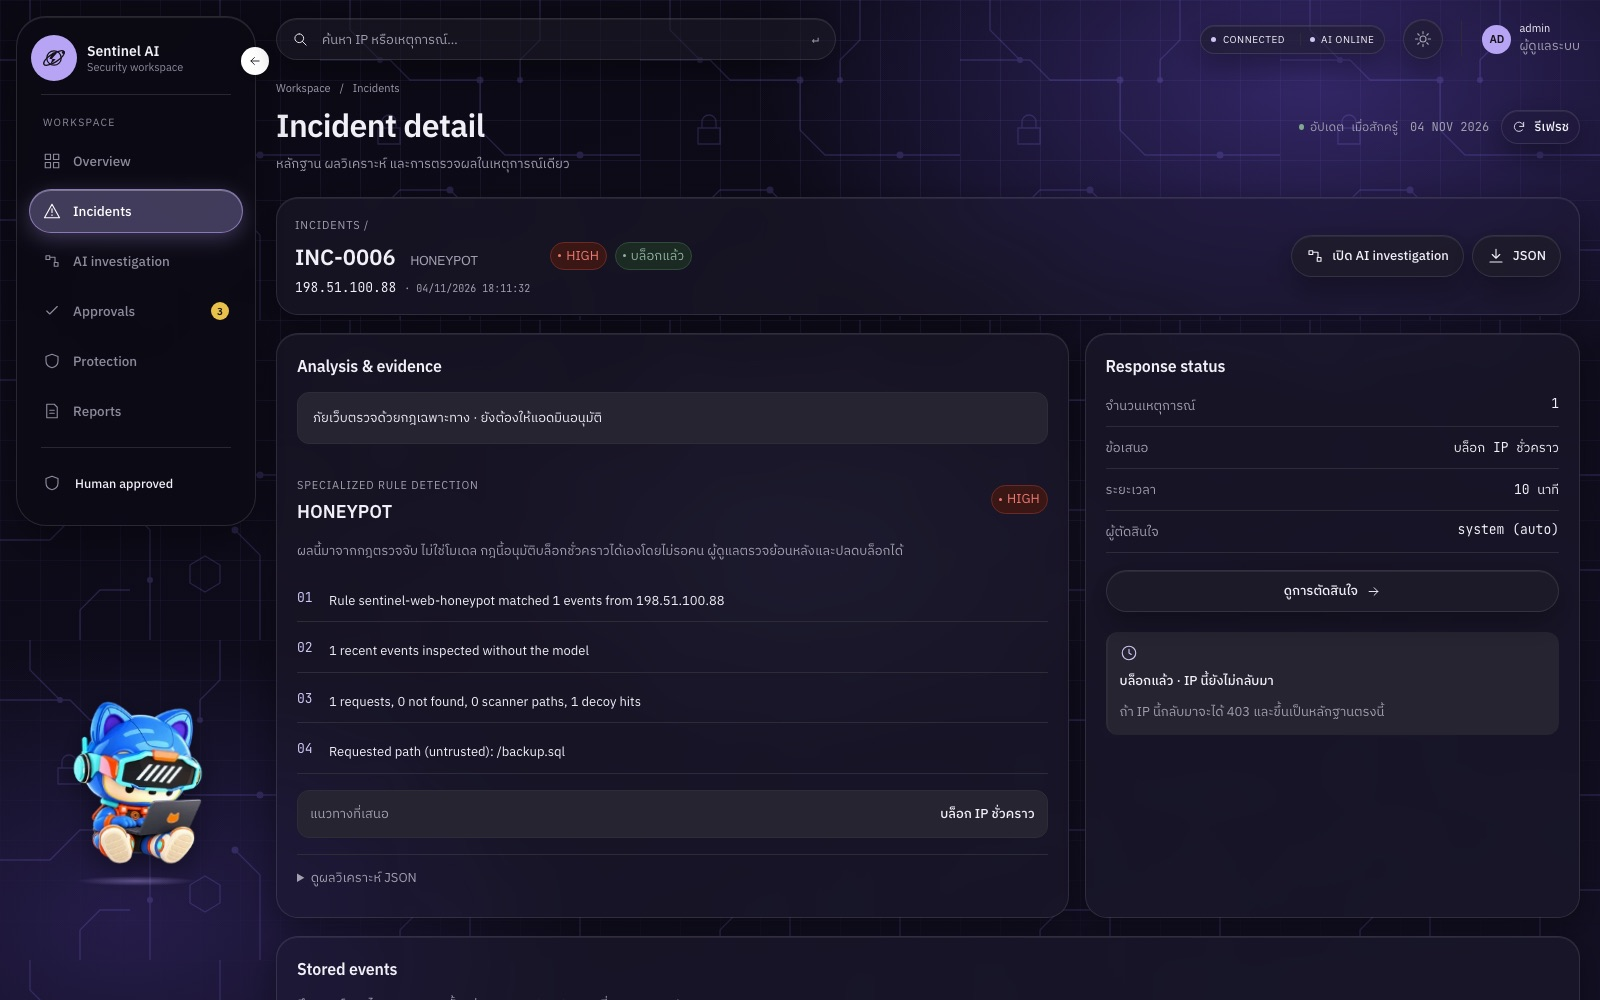
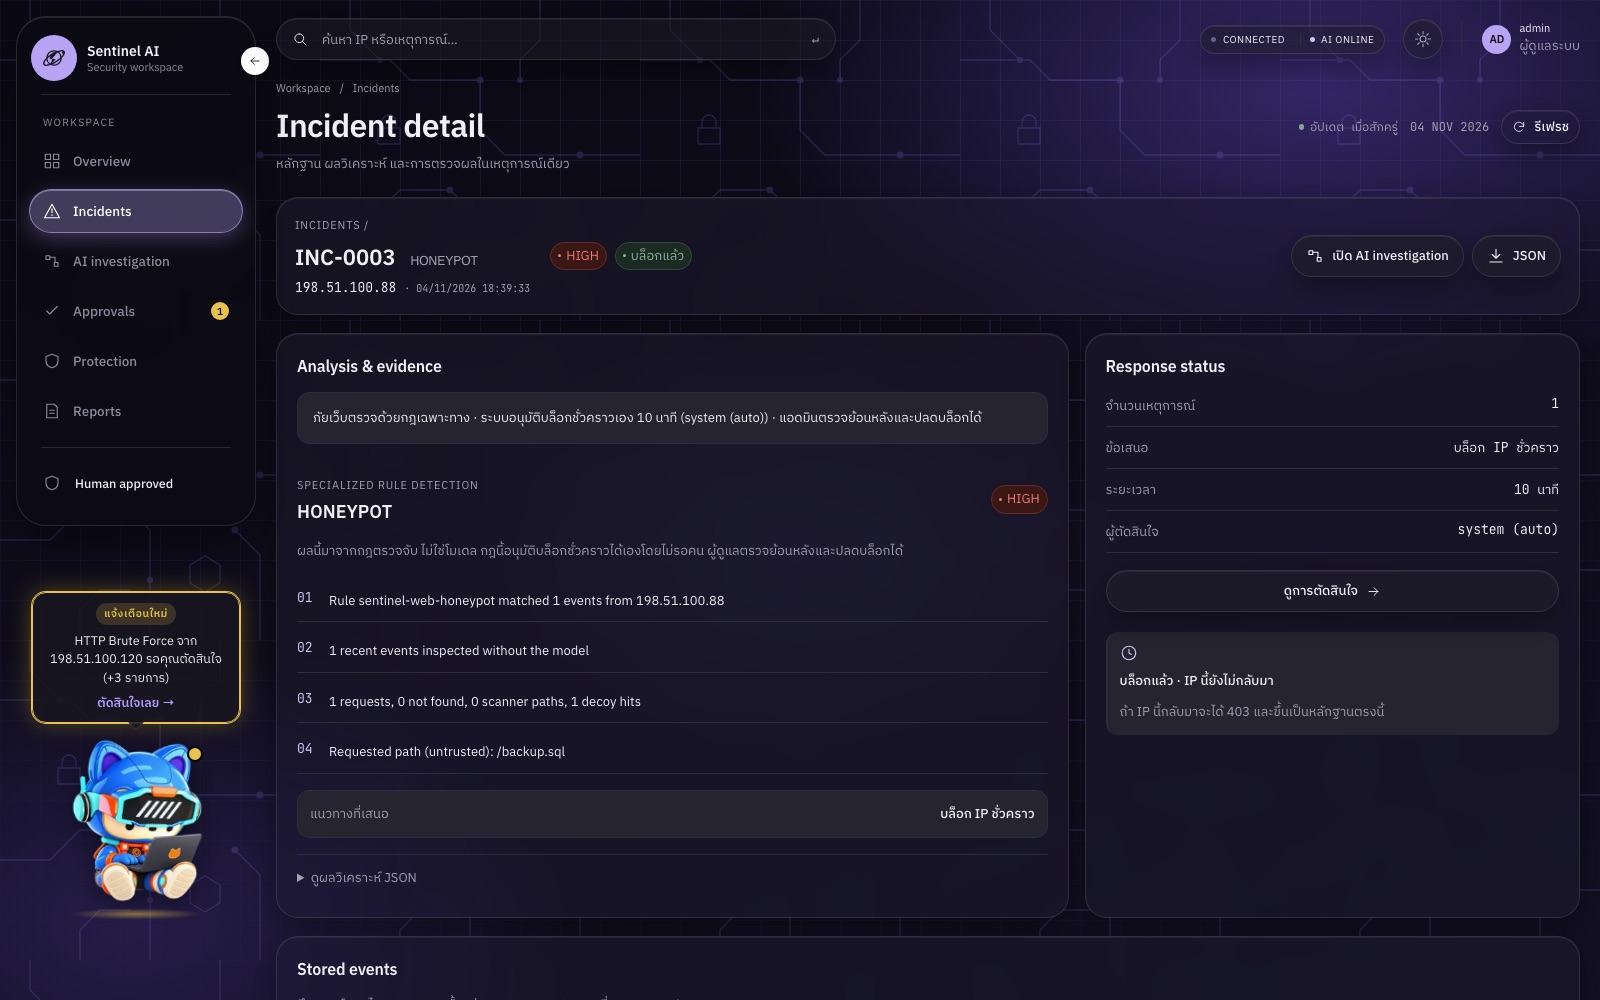
docs(readme): results after #45/#46, before/after replay, TRAFFIC_ANOMALY prompt gap

Changed region(s): [[0.0, 0.589, 0.1562, 0.93], [0.3125, 0.403, 0.625, 0.434]]

diff --git a/README.md b/README.md
@@ -210,15 +210,15 @@
 
 ### 10.1 การทดสอบอัตโนมัติ
 
-ผลจาก branch `dev` (`da404c2`) วันที่ 4 พ.ย. 2569
+ผลจาก branch `dev` หลังรวม #45 และ #46 วันที่ 4 พ.ย. 2569
 
 | ชุดทดสอบ | ขอบเขต | ผล |
 |---|---|---|
-| Backend (`backend/tests`, 18 ไฟล์) | detection, policy, การอนุมัติอัตโนมัติ, agent, API contract, การเข้าถึง, WebSocket, audit log | 473 passed |
+| Backend (`backend/tests`, 18 ไฟล์) | detection, policy, การอนุมัติอัตโนมัติ, agent และหน้าต่างเวลาของเครื่องมือ, API contract, การเข้าถึง, WebSocket, audit log | 475 passed |
 | Bridge (`integrations/rod_mai_rod/test_bridge.py`) | การสรุปคำขอ, honeypot, ตัวกรอง `Sec-Fetch-Site`, การเขียนกฎ Caddy | 16 passed |
 | สคริปต์ทดสอบกับระบบจริง (`scripts/test_vps_live_test.py`) | ลำดับการโจมตี 8 กรณี, การรอผล, header แบบ cross-site | 21 passed |
 | ตัวประเมินโมเดล (`model/eval`) | การให้คะแนนและการตรวจข้อเท็จจริงในคำอธิบาย | 26 passed |
-| Frontend | `npm run build` | passed |
+| Frontend (`frontend/tests`) | การแสดงผลภัยเว็บ การอนุมัติอัตโนมัติ อายุของกฎ และ `npm run build` | 41 passed, build passed |
 
 GitHub Actions รัน CI ของ backend และ frontend ทุก pull request และต้องผ่านก่อน merge
 
@@ -293,7 +293,19 @@ GitHub Actions รัน CI ของ backend และ frontend ทุก pull 
 | INC-0004 | PORT_SCAN | SUSPICIOUS_LOGIN |
 | INC-0008 | TRAFFIC_ANOMALY | SUSPICIOUS_LOGIN |
 
-ทั้ง 5 รายการที่ระบุผิดมาจาก IP ของเครื่องทดสอบเดียวกัน ตรวจ trace แล้วพบว่า `get_ip_activity` สรุปกิจกรรมของ IP ตลอดประวัติโดยไม่จำกัดช่วงเวลา (เช่นใน INC-0004 และ INC-0008 คืนค่า `failed_logins: 12`, `success_logins: 1` จากกรณีทดสอบการเข้าสู่ระบบก่อนหน้า) ขณะที่ log ของ incident เองมีเพียงการเชื่อมต่อ TCP โมเดลจึงให้น้ำหนักกับประวัติการเข้าสู่ระบบมากกว่าหลักฐานของ incident ตัวเลขในหลักฐานจึงมาจากข้อมูลจริงของ IP ไม่ได้สร้างขึ้นเอง แต่ไม่ใช่หลักฐานของ incident นั้น ชุดทดสอบ v1–v6 ใช้ IP ต่างกันในแต่ละกรณีจึงไม่พบปัญหานี้ แก้ไขแล้วใน #46 โดยให้เครื่องมืออ่านเฉพาะช่วงเวลาของ incident
+ทั้ง 5 รายการที่ระบุผิดมาจาก IP ของเครื่องทดสอบเดียวกัน ตรวจ trace แล้วพบว่า `get_ip_activity` สรุปกิจกรรมของ IP ตลอดประวัติโดยไม่จำกัดช่วงเวลา (เช่นใน INC-0004 และ INC-0008 คืนค่า `failed_logins: 12`, `success_logins: 1` จากกรณีทดสอบการเข้าสู่ระบบก่อนหน้า) ขณะที่ log ของ incident เองมีเพียงการเชื่อมต่อ TCP โมเดลจึงให้น้ำหนักกับประวัติการเข้าสู่ระบบมากกว่าหลักฐานของ incident ตัวเลขในหลักฐานจึงมาจากข้อมูลจริงของ IP ไม่ได้สร้างขึ้นเอง แต่ไม่ใช่หลักฐานของ incident นั้น ชุดทดสอบ v1–v6 ใช้ IP ต่างกันในแต่ละกรณีจึงไม่พบปัญหานี้ แก้ไขแล้วใน #46 โดยให้เครื่องมืออ่านเฉพาะ event ตั้งแต่ 75 วินาทีก่อน event ล่าสุดของ IP ณ เวลาที่เปิด incident
+
+**ผลก่อนและหลังแก้ (r2 บน M5):** จำลองรูปแบบเดียวกับการซ้อมด้วย Demo Lab 5 สถานการณ์จาก IP เดียวกัน ห่างกัน 90 วินาที
+
+| กฎ | ก่อนแก้: `get_ip_activity` (ล้มเหลว/สำเร็จ) → r2 | หลังแก้ |
+|---|---|---|
+| SUSPICIOUS_LOGIN | 6/1 → SUSPICIOUS_LOGIN | 6/1 → SUSPICIOUS_LOGIN |
+| HTTP_AUTH_BRUTE_FORCE (สถานการณ์เดียวกัน มีการเข้าสู่ระบบสำเร็จ) | 6/1 → SUSPICIOUS_LOGIN | 6/1 → SUSPICIOUS_LOGIN |
+| SSH_BRUTE_FORCE | 12/1 → SUSPICIOUS_LOGIN | 6/0 → **SSH_BRUTE_FORCE** |
+| PORT_SCAN | 12/1 → SUSPICIOUS_LOGIN | 0/0 → **PORT_SCAN** |
+| TRAFFIC_ANOMALY | 12/1 → SUSPICIOUS_LOGIN | 0/0 → PORT_SCAN |
+
+ก่อนแก้เกิดอาการเดียวกับบน VPS หลังแก้ SSH และ port scan ระบุถูก ทุกกรณีเสนอ `TEMP_BLOCK_IP` เท่าเดิม ส่วน TRAFFIC_ANOMALY ยังระบุผิดด้วยสาเหตุอื่น (หัวข้อ 12)
 
 **การโจมตีจริงจากอินเทอร์เน็ต:** บนเครื่องใหม่ (4 พ.ย. 2569) พบ port scan จากภายนอก 63 พอร์ต → PORT_SCAN → r2 เสนอ `TEMP_BLOCK_IP` → รอผู้ดูแล บนเครื่องเดิม (30 ต.ค. 2569) ตรวจพบ PORT_SCAN และ SSH brute force จาก IP ภายนอก 14 incident ผู้ดูแลอนุมัติบล็อก 10 นาที และเว็บไซต์อื่นตอบ 200 ตลอดการทดสอบ
 
@@ -327,6 +339,7 @@ GitHub Actions รัน CI ของ backend และ frontend ทุก pull 
 | เทส backend ล้มเหลวบน Windows | shell อ่าน path `C:\` ไม่ได้ และไฟล์ถูกเขียนเป็น CRLF | แก้เทสให้ไม่ขึ้นกับระบบปฏิบัติการ (#30) |
 | เว็บไซต์ภายนอกทำให้ผู้ใช้จริงถูกบล็อกอัตโนมัติได้ | `<img>` ที่ชี้มายัง path กับดักทำให้เบราว์เซอร์ของผู้เข้าชมส่งคำขอจาก IP ของผู้เข้าชม | ตรวจ `Sec-Fetch-Site` ใน bridge (#41) รวมถึงกรณี `same-site` ของ `sslip.io` และคำขอ HTTP ที่ถูก redirect |
 | การสแกน `/.env` ไม่ถูกบล็อกอัตโนมัติ | path ของเครื่องมือสแกนได้ 404 กฎ 404 จึงเปิด incident ก่อนและ incident ผูกกับกฎนั้น | ย้าย incident ไปผูกกับกฎ `web_scan_paths` เมื่อกฎนั้นตรวจพบภายหลัง (#43) |
+| แถบข้อความภัยเว็บระบุว่า "ยังต้องให้แอดมินอนุมัติ" แม้ระบบบล็อกเองแล้ว และหน้า Protection แสดงเวลาที่เหลือหลายพันล้านนาทีเมื่อตั้ง `SENTINEL_MANUAL_UNBLOCK=1` | ข้อความเขียนตายตัว และกฎที่ไม่มีวันหมดอายุบันทึกเป็นปี 9999 | แสดงข้อความตามสถานะ proposal และแสดง "จนกว่าจะปลดบล็อก" (#45) |
 | ภัยเว็บรอคิวการวิเคราะห์ของโมเดล | worker วิเคราะห์ incident ทีละรายการ | วิเคราะห์และอนุมัติภัยเว็บที่เข้าเงื่อนไขในขณะรับ event (#40) |
 | r2 ระบุชนิดภัยผิด 5 จาก 6 incident บน VPS (หัวข้อ 10.3) | `get_ip_activity` และ `get_incident_logs` อ่านประวัติทั้งหมดของ IP เมื่อทดสอบทุกกรณีจาก IP เดียว กรณีหลังจึงเห็นการเข้าสู่ระบบของกรณีก่อนหน้า | จำกัดให้อ่านเฉพาะ event ตั้งแต่ 75 วินาทีก่อนเปิด incident (#46) |
 
@@ -339,12 +352,13 @@ GitHub Actions รัน CI ของ backend และ frontend ทุก pull 
 | ขอบเขตการบล็อก | บล็อกที่ระดับเว็บไซต์ (Caddy) ไม่ใช่ firewall ของเครื่อง SSH พอร์ตอื่น และบริการที่ไม่ผ่าน Caddy ตรวจจับได้แต่ไม่บล็อก | firewall ระดับเครื่องที่มีกลไกย้อนกลับและป้องกันการล็อกผู้ดูแล |
 | การกรองการบล็อกผิดของโมเดล | โมเดลทุกรุ่นยังเสนอบล็อกกรณีที่ไม่ควรบล็อกเกือบทั้งหมด (v5/v6) | ข้อมูลฝึกที่มีกรณีปกติซึ่งเกินเกณฑ์ของกฎ |
 | HTTP_FLOOD ที่อนุมัติอัตโนมัติ | คำขอแบบ cross-site ยังนับใน HTTP_FLOOD เว็บไซต์ภายนอกจึงทำให้เบราว์เซอร์ของผู้ใช้ส่งคำขอจนถูกบล็อก 600 วินาทีได้ (ไม่เกิน 10 IP ต่อชั่วโมง) | bridge ส่งจำนวนคำขอแบบ cross-site แยก และ backend ไม่นับส่วนนี้ในการอนุมัติอัตโนมัติ |
-| การแสดงผลการอนุมัติอัตโนมัติ | dashboard แสดงผ่านชื่อผู้อนุมัติ `system (auto)` ยังไม่มีป้ายเฉพาะ และแถบข้อความของภัยเว็บยังระบุว่า "ยังต้องให้แอดมินอนุมัติ" แม้เปิดการอนุมัติอัตโนมัติ | เพิ่มป้าย "ระบบอนุมัติเอง" และแสดงข้อความตามสถานะของสวิตช์ |
+| ป้ายการอนุมัติอัตโนมัติ | แถบข้อความใน incident ระบุแล้วว่าระบบอนุมัติเอง แต่รายการ incident และป้าย "Human approved" ในเมนูยังไม่แยกการอนุมัติอัตโนมัติ | เพิ่มป้ายในรายการ incident และปรับข้อความในเมนู |
 | SYN flood ที่พอร์ต 443 | sensor ไม่นับ SYN พอร์ต 80/443 (ใช้ Caddy log แทน) การเชื่อมต่อที่ไม่ส่ง HTTP จึงมองไม่เห็น | นับ SYN ของพอร์ตเว็บแยกจากคำขอ HTTP |
 | ผู้ใช้ IPv6 | คำขอ IPv6 ผ่าน docker-proxy ของเครื่องถูกมองเป็น IP ภายใน จึงไม่ถูกบันทึกและบล็อกไม่ได้ | ให้ Caddy รับ IPv6 โดยตรง |
 | SSH ด้วย public key | sshd ระดับ INFO บันทึก Failed password แต่ไม่บันทึก Failed publickey (ไม่ได้แก้ไข sshd ของเจ้าของเครื่อง) | เพิ่ม LogLevel เมื่อได้รับอนุญาต |
 | ปริมาณข้อมูลบน dashboard | ดึง event 500 รายการล่าสุด หากมี flood กิจกรรม SSH หลังบล็อกอาจไม่แสดง | แบ่งหน้าตามชนิด event |
 | โมเดลบน workstation | ต้องเปิด reverse SSH tunnel หากปิด ระบบวิเคราะห์ด้วยกฎ | ย้ายโมเดลไปเครื่องที่เปิดตลอดเวลา |
+| การระบุ TRAFFIC_ANOMALY ของโมเดล | prompt ที่ backend ใช้ (`threat_analyst_v1.md`) ไม่มีขั้นตัดสิน TRAFFIC_ANOMALY โมเดลจึงระบุ connection flood เป็นชนิดอื่น (หัวข้อ 10.3) และชุด v5/v6 ไม่มีกรณีนี้จึงไม่เคยถูกวัด มาตรการที่เสนอยังถูกต้อง | ประเมิน `threat_analyst_v2.md` ซึ่งมีขั้นนี้แล้วบนชุดที่มีกรณี connection flood ก่อนเปลี่ยนเป็นค่าเริ่มต้น |
 | ข้อมูลทดสอบโมเดล | เป็นข้อมูลสังเคราะห์ แม้แยก generator และค่าจากข้อมูลฝึกแล้ว รูปแบบ log ยังใกล้กับข้อมูลฝึก | ทดสอบกับ log จริงที่ติดป้ายกำกับ |
 | การอนุมานผลการเข้าสู่ระบบ | อนุมานจาก HTTP status 200/401 ของ endpoint login ไม่ได้อ่านเนื้อหาคำขอ sensor เก็บเฉพาะ metadata ไม่ใช่ IDS เต็มรูปแบบ | รับ event จากแอปพลิเคชันโดยตรง ([docs/real-server-integration.md](docs/real-server-integration.md)) |
 | ที่มาของการโจมตีในการสาธิต | การโจมตีส่วนใหญ่มาจากเครื่องทดสอบของผู้จัดทำ การโจมตีจริงจากอินเทอร์เน็ตที่พบคือ port scan และเครื่องมือสแกนเว็บ | เก็บสถิติจากการใช้งานจริงระยะยาว |
